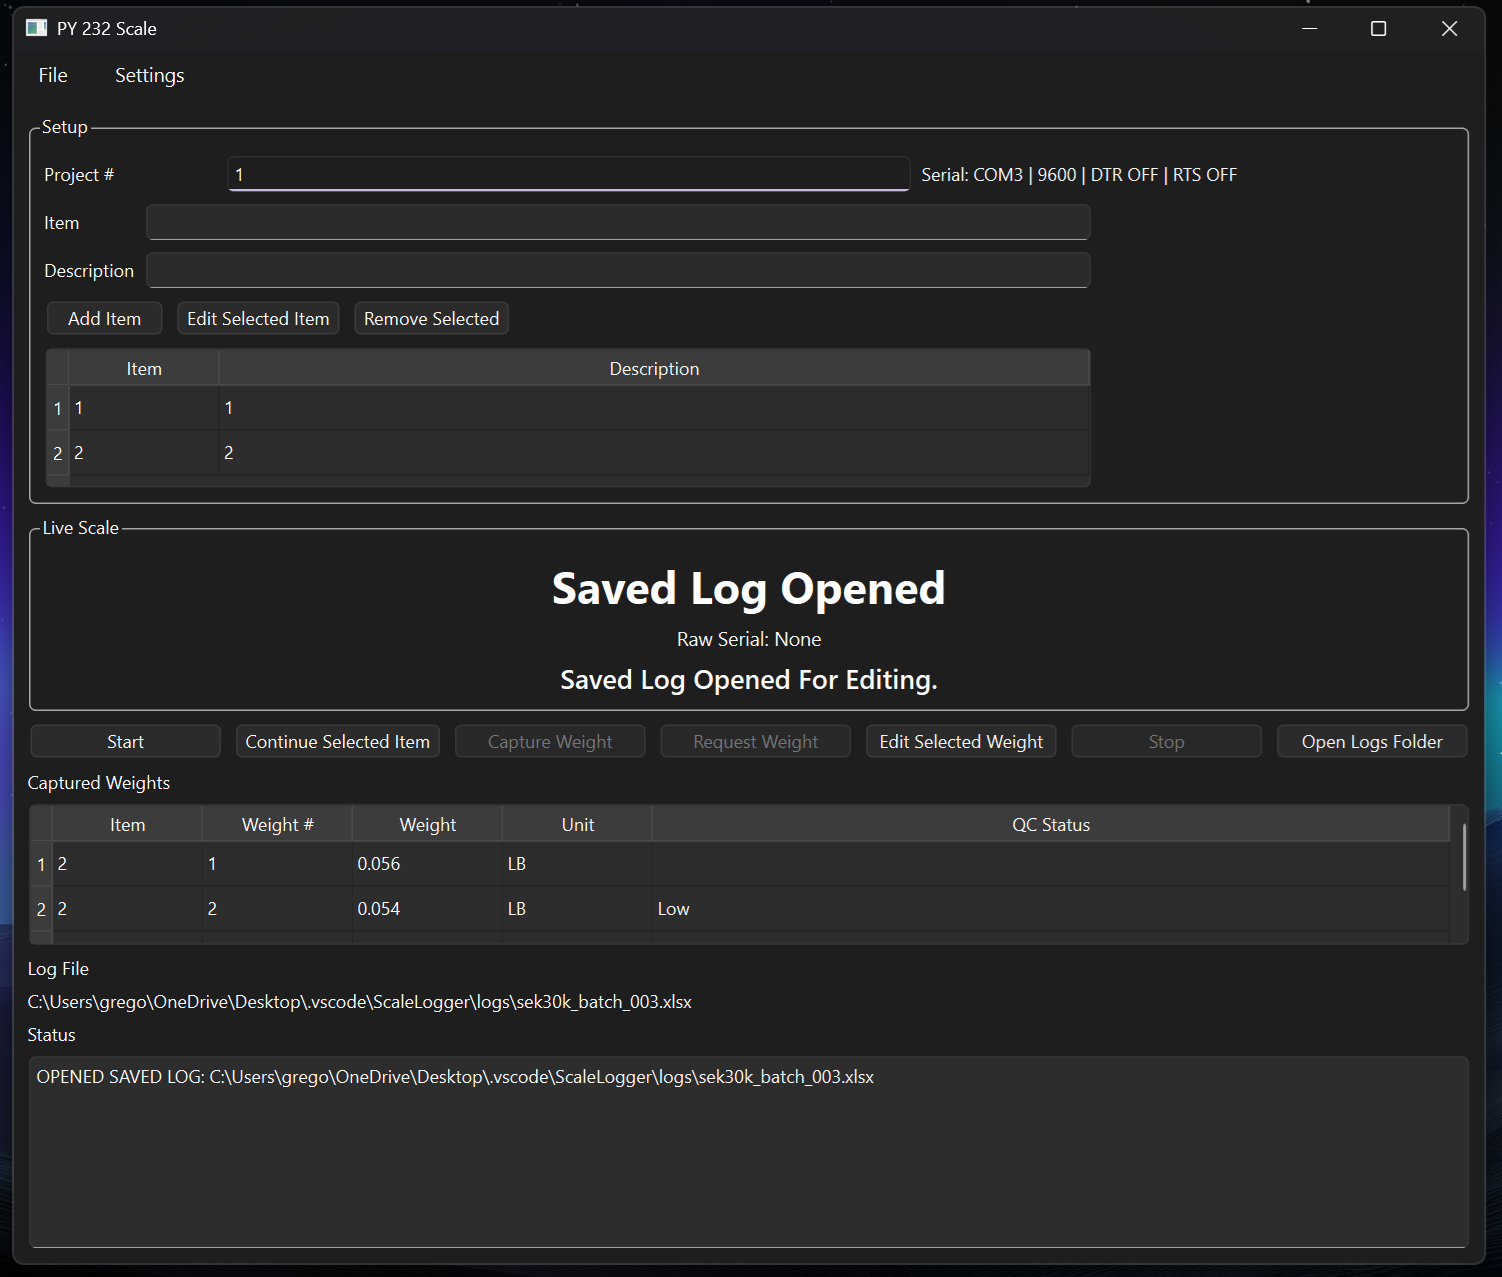
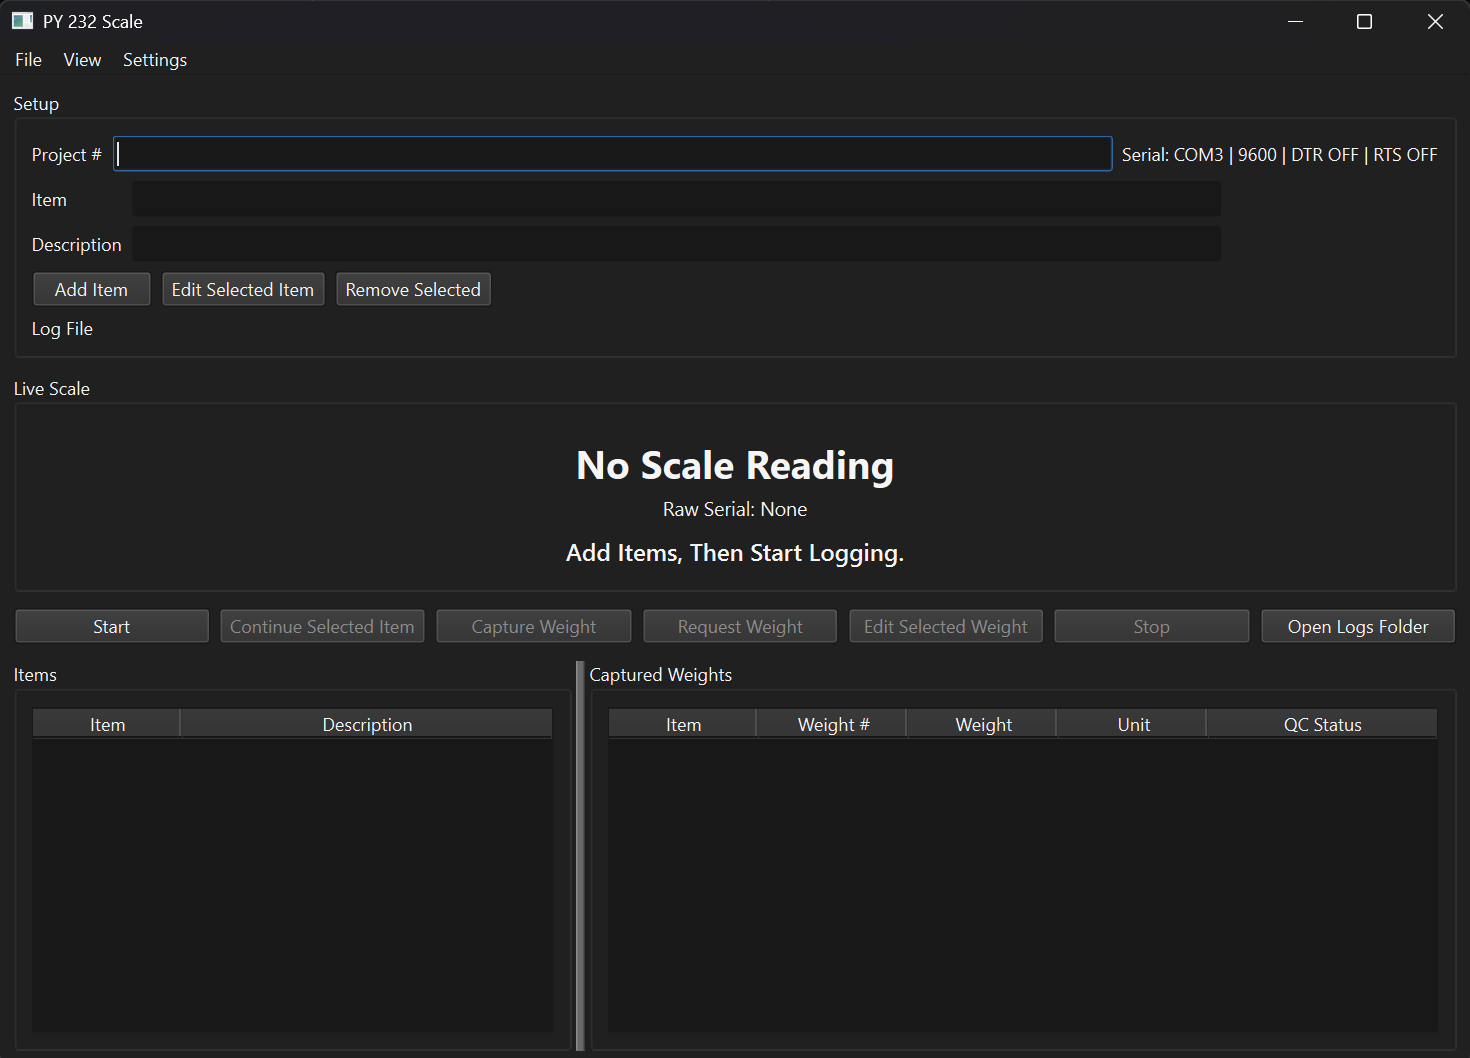
Prepare Py232 Scale v0.3 release

diff --git a/scale_logger/gui.py b/scale_logger/gui.py
@@ -20,6 +20,7 @@ from PySide6.QtWidgets import (
     QFormLayout,
     QGridLayout,
     QGroupBox,
+    QHeaderView,
     QHBoxLayout,
     QInputDialog,
     QLabel,
@@ -220,14 +221,26 @@ class SerialReader(QThread):
         return not upper_line.startswith(ignored_prefixes)
 
 
+class LogStatusDialog(QDialog):
+    visibility_changed = Signal(bool)
+
+    def closeEvent(self, event):
+        event.ignore()
+        self.hide()
+        self.visibility_changed.emit(False)
+
+
 class MainWindow(QMainWindow):
     def __init__(self):
         super().__init__()
         self.setWindowTitle("PY 232 Scale")
         self.resize(980, 680)
+        self.setMinimumSize(760, 500)
 
         self.settings = QSettings()
         self.theme_actions = {}
+        self.log_status_action = None
+        self.log_status_window = None
         self.session = None
         self.reader = None
         self.latest_reading = None
@@ -277,10 +290,12 @@ class MainWindow(QMainWindow):
 
         root = QWidget()
         root_layout = QVBoxLayout(root)
-        main_splitter = QSplitter(Qt.Vertical)
-        main_splitter.setChildrenCollapsible(False)
+        tables_splitter = QSplitter(Qt.Horizontal)
+        self.configure_splitter(tables_splitter)
 
         setup_group = QGroupBox("Setup")
+        setup_group.setMinimumHeight(95)
+        setup_group.setSizePolicy(QSizePolicy.Expanding, QSizePolicy.Fixed)
         setup_layout = QGridLayout(setup_group)
         setup_layout.addWidget(QLabel("Project #"), 0, 0)
         setup_layout.addWidget(self.project_edit, 0, 1, 1, 4)
@@ -297,6 +312,7 @@ class MainWindow(QMainWindow):
         item_buttons.addStretch()
 
         self.items_table.setHorizontalHeaderLabels(["Item", "Description"])
+        self.items_table.horizontalHeader().setSectionResizeMode(QHeaderView.Interactive)
         self.items_table.horizontalHeader().setStretchLastSection(True)
         self.items_table.setSelectionBehavior(QAbstractItemView.SelectRows)
         self.items_table.setEditTriggers(
@@ -304,24 +320,38 @@ class MainWindow(QMainWindow):
             | QAbstractItemView.EditKeyPressed
             | QAbstractItemView.AnyKeyPressed
         )
-        self.items_table.setMinimumHeight(90)
+        self.items_table.setMinimumHeight(45)
         self.items_table.setSizePolicy(QSizePolicy.Expanding, QSizePolicy.Expanding)
 
         setup_layout.addLayout(item_form, 1, 0, 1, 6)
         setup_layout.addLayout(item_buttons, 2, 0, 1, 6)
-        setup_layout.addWidget(self.items_table, 3, 0, 1, 6)
-        setup_layout.setRowStretch(3, 1)
+        self.log_path_label.setWordWrap(True)
+        self.log_path_label.setTextInteractionFlags(Qt.TextSelectableByMouse)
+        setup_layout.addWidget(QLabel("Log File"), 3, 0)
+        setup_layout.addWidget(self.log_path_label, 3, 1, 1, 5)
         setup_layout.setColumnStretch(1, 1)
         setup_layout.setColumnStretch(4, 1)
 
+        items_group = QGroupBox("Items")
+        items_group.setMinimumHeight(45)
+        items_group.setSizePolicy(QSizePolicy.Expanding, QSizePolicy.Expanding)
+        items_layout = QVBoxLayout(items_group)
+        items_layout.addWidget(self.items_table)
+
         live_group = QGroupBox("Live Scale")
+        live_group.setFixedHeight(145)
+        live_group.setSizePolicy(QSizePolicy.Expanding, QSizePolicy.Fixed)
         live_layout = QVBoxLayout(live_group)
+        live_layout.setContentsMargins(10, 16, 10, 12)
+        live_layout.setSpacing(8)
         self.live_label.setAlignment(Qt.AlignCenter)
-        self.live_label.setStyleSheet("font-size: 30px; font-weight: 700;")
+        self.live_label.setMinimumHeight(42)
+        self.live_label.setStyleSheet("font-size: 26px; font-weight: 700;")
         self.raw_line_label.setAlignment(Qt.AlignCenter)
         self.raw_line_label.setStyleSheet("font-size: 13px;")
         self.target_label.setAlignment(Qt.AlignCenter)
-        self.target_label.setStyleSheet("font-size: 18px; font-weight: 600;")
+        self.target_label.setMinimumHeight(24)
+        self.target_label.setStyleSheet("font-size: 16px; font-weight: 600;")
         live_layout.addWidget(self.live_label)
         live_layout.addWidget(self.raw_line_label)
         live_layout.addWidget(self.target_label)
@@ -335,12 +365,16 @@ class MainWindow(QMainWindow):
         action_layout.addWidget(self.stop_button)
         action_layout.addWidget(self.open_logs_button)
         scale_widget = QWidget()
+        scale_widget.setFixedHeight(190)
+        scale_widget.setSizePolicy(QSizePolicy.Expanding, QSizePolicy.Fixed)
         scale_layout = QVBoxLayout(scale_widget)
         scale_layout.setContentsMargins(0, 0, 0, 0)
         scale_layout.addWidget(live_group)
         scale_layout.addLayout(action_layout)
 
         captured_group = QGroupBox("Captured Weights")
+        captured_group.setMinimumHeight(120)
+        captured_group.setSizePolicy(QSizePolicy.Expanding, QSizePolicy.Ignored)
         captured_layout = QVBoxLayout(captured_group)
         self.captured_table.setHorizontalHeaderLabels([
             "Item",
@@ -349,35 +383,26 @@ class MainWindow(QMainWindow):
             "Unit",
             "QC Status",
         ])
+        self.captured_table.horizontalHeader().setSectionResizeMode(QHeaderView.Interactive)
         self.captured_table.horizontalHeader().setStretchLastSection(True)
         self.captured_table.setSelectionBehavior(QAbstractItemView.SelectRows)
         self.captured_table.setEditTriggers(QAbstractItemView.NoEditTriggers)
-        self.captured_table.setMinimumHeight(110)
+        self.captured_table.setMinimumHeight(95)
         self.captured_table.setSizePolicy(QSizePolicy.Expanding, QSizePolicy.Expanding)
         captured_layout.addWidget(self.captured_table)
 
-        status_group = QGroupBox("Log And Status")
-        status_layout = QVBoxLayout(status_group)
-        self.status_box.setReadOnly(True)
-        self.status_box.setMinimumHeight(90)
-        self.status_box.setSizePolicy(QSizePolicy.Expanding, QSizePolicy.Expanding)
-        status_layout.addWidget(QLabel("Log File"))
-        status_layout.addWidget(self.log_path_label)
-        status_layout.addWidget(QLabel("Status"))
-        status_layout.addWidget(self.status_box)
+        tables_splitter.addWidget(items_group)
+        tables_splitter.addWidget(captured_group)
+        tables_splitter.setStretchFactor(0, 2)
+        tables_splitter.setStretchFactor(1, 3)
+        tables_splitter.setSizes([360, 560])
 
-        main_splitter.addWidget(setup_group)
-        main_splitter.addWidget(scale_widget)
-        main_splitter.addWidget(captured_group)
-        main_splitter.addWidget(status_group)
-        main_splitter.setStretchFactor(0, 3)
-        main_splitter.setStretchFactor(1, 2)
-        main_splitter.setStretchFactor(2, 3)
-        main_splitter.setStretchFactor(3, 2)
-        main_splitter.setSizes([250, 180, 180, 150])
-        root_layout.addWidget(main_splitter)
+        root_layout.addWidget(setup_group)
+        root_layout.addWidget(scale_widget)
+        root_layout.addWidget(tables_splitter, 1)
 
         self.setCentralWidget(root)
+        self.setup_log_status_window()
 
         self.add_item_button.clicked.connect(self.add_item)
         self.edit_item_button.clicked.connect(self.edit_selected_item)
@@ -391,6 +416,61 @@ class MainWindow(QMainWindow):
         self.edit_weight_button.clicked.connect(self.edit_selected_weight)
         self.stop_button.clicked.connect(self.stop_logging)
         self.open_logs_button.clicked.connect(self.open_logs_folder)
+
+    def setup_log_status_window(self):
+        self.log_status_window = LogStatusDialog(self)
+        self.log_status_window.setWindowTitle("Console")
+        self.log_status_window.resize(720, 360)
+        self.log_status_window.visibility_changed.connect(
+            self.on_log_status_visibility_changed
+        )
+
+        layout = QVBoxLayout(self.log_status_window)
+        self.status_box.setReadOnly(True)
+        self.status_box.setMinimumHeight(220)
+        self.status_box.setSizePolicy(QSizePolicy.Expanding, QSizePolicy.Expanding)
+
+        layout.addWidget(QLabel("Status"))
+        layout.addWidget(self.status_box, 1)
+
+    def set_log_status_visible(self, visible):
+        if not self.log_status_window:
+            return
+
+        if visible:
+            self.log_status_window.show()
+            self.log_status_window.raise_()
+            self.log_status_window.activateWindow()
+        else:
+            self.log_status_window.hide()
+
+        if self.log_status_action:
+            self.log_status_action.setChecked(visible)
+
+    def on_log_status_visibility_changed(self, visible):
+        if self.log_status_action:
+            self.log_status_action.setChecked(visible)
+
+    def configure_splitter(self, splitter):
+        splitter.setChildrenCollapsible(True)
+        splitter.setHandleWidth(12)
+        splitter.setOpaqueResize(True)
+        splitter.setStyleSheet(
+            """
+            QSplitter::handle:vertical {
+                background: #686868;
+                border-top: 1px solid #8a8a8a;
+                border-bottom: 1px solid #3a3a3a;
+                margin: 3px 0;
+            }
+            QSplitter::handle:horizontal {
+                background: #686868;
+                border-left: 1px solid #8a8a8a;
+                border-right: 1px solid #3a3a3a;
+                margin: 0 3px;
+            }
+            """
+        )
 
     def setup_menu(self):
         file_menu = self.menuBar().addMenu("File")
@@ -409,6 +489,13 @@ class MainWindow(QMainWindow):
         close_action = QAction("Close", self)
         close_action.triggered.connect(self.close)
         file_menu.addAction(close_action)
+
+        view_menu = self.menuBar().addMenu("View")
+        self.log_status_action = QAction("Console", self)
+        self.log_status_action.setCheckable(True)
+        self.log_status_action.setChecked(False)
+        self.log_status_action.triggered.connect(self.set_log_status_visible)
+        view_menu.addAction(self.log_status_action)
 
         settings_menu = self.menuBar().addMenu("Settings")
         serial_settings_action = QAction("Serial Settings", self)
@@ -1297,6 +1384,8 @@ class MainWindow(QMainWindow):
         self.status_box.append(str(message))
 
     def closeEvent(self, event):
+        if self.log_status_window:
+            self.log_status_window.hide()
         self.stop_logging()
         event.accept()
 

diff --git a/README.md b/README.md
@@ -12,7 +12,7 @@ and saves the results as `.xlsx` log files.
 For normal use, run the packaged single-file executable:
 
 ```text
-dist\PY 232 Scale v0.2.exe
+dist\Py232 Scale v0.3.exe
 ```
 
 The latest published Windows build is available from
@@ -33,8 +33,9 @@ files.
 - Automatically size the printable item table to the number of items entered.
 - Add total recorded `Low` weight and total recorded `High` weight to the
   bottom tolerance fields.
-- Resize the item list, captured weights, live scale, and status areas with
-  draggable splitters.
+- Use the live scale view above side-by-side item and captured weight tables.
+- Resize the item list and captured weights with the draggable center splitter.
+- Open or hide the separate Console window from the View menu.
 - Save Excel logs in the `Logs` folder.
 - Open previously saved logs for editing.
 - Continue weighing an item from an existing log.
@@ -111,8 +112,9 @@ marked `High`, and the bottom summary fields collect all low and high readings.
 The bottom `Low` field also shows the total of all low-marked weights, and the
 bottom `High` field shows the total of all high-marked weights.
 
-The item list and captured weights sections can be resized by dragging the
-horizontal splitters between the main screen sections.
+The live scale section stays a fixed height so the current reading remains
+visible. The item list and captured weights sections sit side by side and can
+be resized by dragging the center splitter between them.
 
 ## Serial Settings
 
@@ -161,6 +163,14 @@ Theme screenshots:
 </a>
 
 ## COM Port And Receive Tests
+
+Use:
+
+```text
+View > Console
+```
+
+to show or hide the separate status console window.
 
 Use:
 
@@ -291,7 +301,7 @@ dist\PY 232 Scale.exe
 Recommended distribution file:
 
 ```text
-dist\PY 232 Scale v0.2.exe
+dist\Py232 Scale v0.3.exe
 ```
 
 If you distribute the folder package instead, the whole `PY 232 Scale` folder
@@ -305,7 +315,7 @@ This usually means the folder package was run from inside Windows zip preview.
 Click `Extract all` first, or use the single-file executable:
 
 ```text
-dist\PY 232 Scale v0.2.exe
+dist\Py232 Scale v0.3.exe
 ```
 
 ### Access Is Denied On COM Port

diff --git a/UPDATE_LOG.md b/UPDATE_LOG.md
@@ -4,6 +4,19 @@ This log covers project changes from the past two weeks, June 1-17, 2026.
 
 ## June 17, 2026
 
+- Moved the live scale section above the item list and captured weights.
+- Kept the live scale section at a fixed vertical size so the reading text stays visible.
+- Placed the item list and captured weights side by side with a draggable center splitter.
+- Moved the log file path into the bottom of the Setup section.
+- Moved status output into a separate `Console` window.
+- Added `View > Console` to show or hide the Console window.
+- Renamed the menu from `Window` to `View`.
+- Cropped the README main screenshot and theme thumbnails so they show only the app window.
+- Updated the README instructions for the v0.3 layout and release executable.
+- Built the single-file Windows executable as `Py232 Scale v0.3.exe`.
+- Smoke tested the v0.3 executable to confirm the app launches and closes cleanly.
+- Recorded the v0.3 release asset SHA256 checksum:
[1 lines of base64/hex data omitted]
 - Added resizable GUI sections with draggable splitters.
 - Made the item list and description table resizable.
 - Made the captured/recorded weights table resizable.
